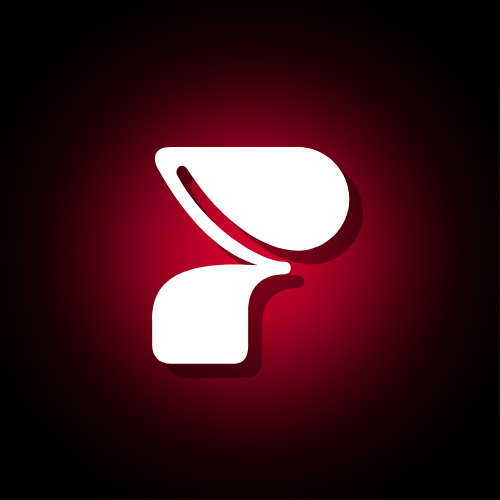
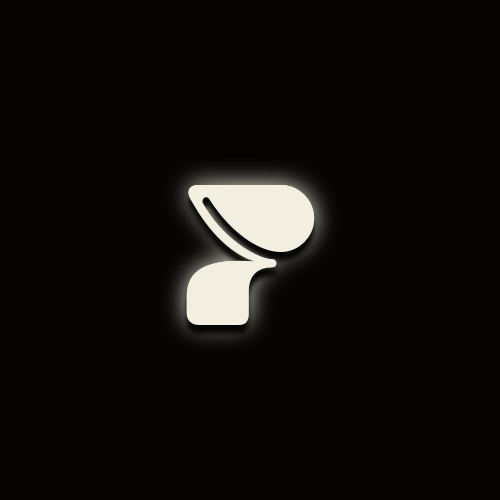
picWall

diff --git a/src/app/index.tsx b/src/app/index.tsx
@@ -3,7 +3,6 @@ import { Link } from "expo-router";
 import { Image } from "expo-image";
 import Footer from "@/utils/Footer";
 import React, { useEffect } from "react";
-import useAppState from "@/utils/store";
 import Colorizer from "@/utils/Colorizer";
 import imageSets from "@/database/static";
 import { FontAwesome5 } from "@expo/vector-icons";
@@ -35,14 +34,11 @@ const ScrollingSlot: React.FC<ScrollingSlotProps> = ({ images, reverse, delay })
             contentFit="cover"
             cachePolicy="memory-disk"
             style={{
+              shadowColor: Colorizer("#060403", 1.0),
               height: imageHeight,
-              borderRadius: 20,
+              borderRadius: 15,
               width: "100%",
-              margin: 3,
-              shadowColor: Colorizer("#080505", 1.0),
-              shadowOffset: { width: 0, height: 4 },
-              shadowOpacity: 0.3,
-              shadowRadius: 8
+              margin: 2
             }}
           />
         ))}
@@ -64,11 +60,11 @@ const AnimatedTitle: React.FC = () => {
   const animatedStyle = useAnimatedStyle(() => ({ transform: [{ scale: scale.value }] }));
   return (
     <Animated.View
-      style={[animatedStyle, { shadowColor: Colorizer("#080505", 1.0), shadowOffset: { width: 0, height: 8 }, shadowOpacity: 0.4, shadowRadius: 12 }]}
+      style={[animatedStyle, { shadowColor: Colorizer("#060403", 1.0), shadowOffset: { width: 0, height: 8 }, shadowOpacity: 0.4, shadowRadius: 12 }]}
       className="items-center mb-4"
       entering={FadeIn.delay(300).duration(1500)}
     >
-      <View className="rounded-full p-1" style={{ backgroundColor: Colorizer("#080505", 0.8), justifyContent: "center", alignItems: "center" }}>
+      <View className="rounded-full p-1" style={{ backgroundColor: Colorizer("#060403", 0.8), justifyContent: "center", alignItems: "center" }}>
         <Image
           alt="logo"
           contentFit="contain"
@@ -107,14 +103,14 @@ const AppPage: React.FC = () => {
     buttonRotate.value = withSpring(0, { damping: 15, stiffness: 90 });
   };
   return (
-    <View style={{ backgroundColor: Colorizer("#080505", 1.0) }} className="h-full w-full">
+    <View style={{ backgroundColor: Colorizer("#060403", 1.0) }} className="h-full w-full">
       <View className="flex-1 justify-center items-center relative">
         <View className="flex-row h-full overflow-hidden relative">
           {imageSets.map((images, slotIndex) => (
             <ScrollingSlot key={slotIndex} images={images} reverse={slotIndex % 2 === 0} delay={slotIndex * 400} />
           ))}
           <LinearGradient
-            colors={[Colorizer("#080505", 1.0), Colorizer("#080505", 0.4), Colorizer("#080505", 0.1), Colorizer("#080505", 0.4), Colorizer("#080505", 1.0)]}
+            colors={[Colorizer("#060403", 1.0), Colorizer("#060403", 0.4), Colorizer("#060403", 0.1), Colorizer("#060403", 0.4), Colorizer("#060403", 1.0)]}
             style={{ position: "absolute", top: 0, right: 0, bottom: 0, left: 0 }}
             locations={[0, 0.2, 0.4, 0.5, 1]}
           />
@@ -129,37 +125,32 @@ const AppPage: React.FC = () => {
                     textShadowRadius: 60,
                     color: Colorizer("#F2EFE0", 1.0),
                     textShadowOffset: { width: 24, height: 2 },
-                    fontFamily: "Dm_Serif_Display_Regular",
-                    textShadowColor: Colorizer("#080505", 1.0)
+                    fontFamily: "Lobster_Regular",
+                    textShadowColor: Colorizer("#060403", 1.0)
                   }}
                 >
                   picWall
                 </Text>
-                <Text className="text-center absolute inset-x-0 top-0" style={{ fontFamily: "Dm_Serif_Display_Regular", color: Colorizer("#F2EFE0", 1.0), fontSize: 80 }}>
+                <Text className="text-center absolute inset-x-0 top-0" style={{ fontFamily: "Lobster_Regular", color: Colorizer("#F2EFE0", 1.0), fontSize: 80 }}>
                   picWall
                 </Text>
                 <Animated.View style={{ alignSelf: "center" }} entering={FadeInDown.delay(600).duration(1500).springify()}>
-                  <View style={{ backgroundColor: Colorizer("#080505", 0.9), borderRadius: 12, paddingHorizontal: 12, paddingVertical: 4, marginTop: 8 }}>
+                  <View style={{ backgroundColor: Colorizer("#060403", 0.9), borderRadius: 12, paddingHorizontal: 12, paddingVertical: 4, marginTop: 8 }}>
                     <Text className="text-center" style={{ fontFamily: "Caveat_Bold", color: Colorizer("#F2EFE0", 1.0), fontSize: 16 }}>
-                      Crafted with <Text style={{ color: Colorizer("#BE2528", 1.0) }}>♥</Text> in India
+                      Crafted with <Text style={{ color: Colorizer("#C26F2D", 1.0) }}>♥</Text> in India
                     </Text>
                   </View>
                 </Animated.View>
               </View>
               <Link href="./Home" asChild>
-                <TouchableOpacity onPressIn={onPressIn} onPressOut={onPressOut} className="mt-44 rounded-2xl overflow-hidden">
-                  <Animated.View style={[buttonAnimatedStyle, { shadowColor: Colorizer("#080505", 1.0), shadowOffset: { width: 0, height: 4 } }]}>
-                    <LinearGradient
-                      colors={[Colorizer("#F2EFE0", 1.0), Colorizer("#F2EFE0", 1.0)]}
-                      start={{ x: 0, y: 0 }}
-                      end={{ x: 1, y: 1 }}
-                      className="flex-row items-center justify-center px-10 py-4"
-                    >
-                      <FontAwesome5 name="camera-retro" size={32} color={Colorizer("#080505", 1.0)} style={{ marginRight: 12 }} />
-                      <Text className="text-2xl" style={{ fontFamily: "Lobster_Regular", color: Colorizer("#080505", 1.0) }}>
+                <TouchableOpacity onPressIn={onPressIn} onPressOut={onPressOut} className="mt-44 rounded-full overflow-hidden">
+                  <Animated.View style={[buttonAnimatedStyle, { shadowColor: Colorizer("#060403", 1.0), shadowOffset: { width: 0, height: 4 } }]}>
+                    <View style={{ backgroundColor: Colorizer("#F2EFE0", 1.0) }} className="flex-row items-center justify-center px-8 py-4">
+                      <FontAwesome5 name="camera-retro" size={32} color={Colorizer("#060403", 1.0)} style={{ marginRight: 12 }} />
+                      <Text className="text-2xl" style={{ fontFamily: "Lobster_Regular", color: Colorizer("#060403", 1.0) }}>
                         Let's Explore Wallpapers
                       </Text>
-                    </LinearGradient>
+                    </View>
                   </Animated.View>
                 </TouchableOpacity>
               </Link>

diff --git a/src/app/Image/index.tsx b/src/app/Image/index.tsx
@@ -26,7 +26,7 @@ const SuccessModal: React.FC<{ visible: boolean; message: string; onClose: () =>
   if (!visible) return null;
   return (
     <View className="absolute inset-0 justify-center items-center">
-      <Animated.View className="absolute inset-0" style={[{ backgroundColor: Colorizer("#080505", 0.5) }, backdropStyle]} />
+      <Animated.View className="absolute inset-0" style={[{ backgroundColor: Colorizer("#060403", 0.5) }, backdropStyle]} />
       <Animated.View className="w-4/5 rounded-3xl p-5 border-4" style={[{ backgroundColor: Colorizer("#111111", 1.0), borderColor: Colorizer("#25BE8B", 1.0) }, modalStyle]}>
         <View className="items-center">
           <Ionicons name="checkmark-done-circle" size={50} color={Colorizer("#25BE8B", 1.0)} />
@@ -60,26 +60,26 @@ const ErrorModal: React.FC<{ visible: boolean; message: string; onClose: () => v
   if (!visible) return null;
   return (
     <View className="absolute inset-0 justify-center items-center">
-      <Animated.View className="absolute inset-0" style={[{ backgroundColor: Colorizer("#080505", 0.5) }, backdropStyle]} />
+      <Animated.View className="absolute inset-0" style={[{ backgroundColor: Colorizer("#060403", 0.5) }, backdropStyle]} />
       <Animated.View
         className="w-4/5 rounded-3xl p-5 border-4"
         style={[
           {
             backgroundColor: Colorizer("#111111", 1.0),
-            borderColor: Colorizer("#BE2528", 1.0)
+            borderColor: Colorizer("#C26F2D", 1.0)
           },
           modalStyle
         ]}
       >
         <View className="items-center">
-          <MaterialIcons name="error" size={50} color={Colorizer("#BE2528", 1.0)} />
-          <Text className="mt-2.5 text-5xl" style={{ fontFamily: "Lobster_Regular", color: Colorizer("#BE2528", 1.0) }}>
+          <MaterialIcons name="error" size={50} color={Colorizer("#C26F2D", 1.0)} />
+          <Text className="mt-2.5 text-5xl" style={{ fontFamily: "Lobster_Regular", color: Colorizer("#C26F2D", 1.0) }}>
             Error
           </Text>
-          <Text className="my-2.5 text-center text-lg" style={{ fontFamily: "Kurale_Regular", color: Colorizer("#BE2528", 1.0) }}>
+          <Text className="my-2.5 text-center text-lg" style={{ fontFamily: "Kurale_Regular", color: Colorizer("#C26F2D", 1.0) }}>
             {message}
           </Text>
-          <TouchableOpacity className="mt-2.5 px-5 py-2 rounded-2xl overflow-hidden" style={{ backgroundColor: Colorizer("#BE2528", 0.4) }} onPress={onClose}>
+          <TouchableOpacity className="mt-2.5 px-5 py-2 rounded-2xl overflow-hidden" style={{ backgroundColor: Colorizer("#C26F2D", 0.4) }} onPress={onClose}>
             <Text className="text-white text-lg" style={{ fontFamily: "Lobster_Regular" }}>
               OK
             </Text>
@@ -112,7 +112,7 @@ const DownloadingModal: React.FC<{ visible: boolean; percentage: number; downloa
   if (!visible) return null;
   return (
     <View className="absolute inset-0 justify-center items-center">
-      <View className="absolute inset-0" style={{ backgroundColor: Colorizer("#080505", 0.5) }} />
+      <View className="absolute inset-0" style={{ backgroundColor: Colorizer("#060403", 0.5) }} />
       <View
         className="w-4/5 rounded-3xl p-5 border-4"
         style={{
@@ -164,13 +164,13 @@ const PreviewImage: React.FC<{ selectedImage: ImageMetadata; screenWidth: number
         {!imageLoading && (
           <View className="items-center">
             <Animated.View className="justify-center items-center rounded-full">
-              <Image style={{ width: 64, height: 64, borderRadius: 32, backgroundColor: Colorizer("#080505", 0.8) }} source={require("@/assets/picWall/picWall.png")} contentFit="contain" />
+              <Image style={{ width: 64, height: 64, borderRadius: 32, backgroundColor: Colorizer("#060403", 0.8) }} source={require("@/assets/picWall/picWall.png")} contentFit="contain" />
             </Animated.View>
           </View>
         )}
       </View>
       {imageLoading && (
-        <View className="absolute inset-0 z-40 justify-center items-center" style={{ backgroundColor: Colorizer("#080505", 1.0) }}>
+        <View className="absolute inset-0 z-40 justify-center items-center" style={{ backgroundColor: Colorizer("#060403", 1.0) }}>
           <ActivityIndicator size="large" color={Colorizer(selectedImage.primary, 1.0)} />
           <Text className="mt-2.5" style={{ fontFamily: "Linotte_Bold", color: Colorizer(selectedImage.primary, 1.0) }}>
             Loading HD Image Preview...
@@ -317,7 +317,7 @@ const WallModal: React.FC<WallModalProps> = ({ visible, onComplete, onCancel, wa
   if (!visible) return null;
   return (
     <View className="absolute inset-0 justify-center items-center">
-      <Animated.View className="absolute inset-0" style={[{ backgroundColor: Colorizer("#080505", 0.5) }, backdropStyle]} />
+      <Animated.View className="absolute inset-0" style={[{ backgroundColor: Colorizer("#060403", 0.5) }, backdropStyle]} />
       <Animated.View className="w-4/5 rounded-3xl p-5 border-4" style={[{ backgroundColor: Colorizer("#111111", 1.0), borderColor: Colorizer(primaryColor, 1.0) }, modalStyle]}>
         <View className="items-center">
           <MaterialIcons name="warning" size={50} color={Colorizer(primaryColor, 1.0)} />
@@ -372,7 +372,7 @@ const FullScreenView: React.FC<FullScreenViewProps> = ({ isFullScreen, setIsFull
   };
   return (
     <Modal visible={isFullScreen} transparent={false} onRequestClose={() => setIsFullScreen(false)} presentationStyle="fullScreen" statusBarTranslucent>
-      <View style={{ flex: 1, backgroundColor: Colorizer("#080505", 1.0) }}>
+      <View style={{ flex: 1, backgroundColor: Colorizer("#060403", 1.0) }}>
         <ScrollView horizontal contentContainerStyle={{ flexGrow: 1, justifyContent: "center", alignItems: "center" }} showsHorizontalScrollIndicator={false}>
           <Image contentFit="fill" source={{ uri: selectedImage.previewLink.replace("lowRes", "highRes") }} style={{ height: "100%", width: (Dimensions.get("window").height * 9) / 16 }} />
         </ScrollView>
@@ -505,7 +505,7 @@ const ImagePage = () => {
   const otherImages = allImages.filter(({ idx }) => idx !== currentIndex);
 
   return (
-    <View className="flex-1" style={{ backgroundColor: Colorizer("#080505", 1.0) }}>
+    <View className="flex-1" style={{ backgroundColor: Colorizer("#060403", 1.0) }}>
       <StatusBar translucent backgroundColor="transparent" barStyle="light-content" />
       <ScrollView className="flex-1">
         <PreviewImage selectedImage={selectedImage} screenWidth={screenWidth} onViewFullScreen={() => setIsFullScreen(true)} />

diff --git a/src/app/Home/index.tsx b/src/app/Home/index.tsx
@@ -64,7 +64,7 @@ const SubImages: React.FC<SubImagesProps> = React.memo(({ images, onImagePress }
             />
             <Text
               className="absolute m-1 bottom-1 right-1 px-2 text-xs rounded-2xl"
-              style={{ fontFamily: "Kurale_Regular", color: Colorizer("#080505", 1.0), backgroundColor: Colorizer(image.primary, 1.0) }}
+              style={{ fontFamily: "Kurale_Regular", color: Colorizer("#F2EFE0", 1.0), backgroundColor: Colorizer(image.primary, 1.0) }}
             >
               {image.primary.toUpperCase()}
             </Text>
@@ -141,7 +141,7 @@ const Card: React.FC<CardProps> = React.memo(({ data }) => {
             <AnimatedImage source={{ uri: currentImage }} style={[{ width: "100%", height: "100%", borderTopLeftRadius: 8, borderTopRightRadius: 8 }, imageStyle]} contentFit="cover" />
             <View className="absolute bottom-0 left-0 right-0 items-center justify-start">
               <Animated.Text
-                style={[textStyle, { textAlign: "center", fontFamily: "Kurale_Regular", color: Colorizer("#080505", 0.8), backgroundColor: Colorizer(data.images[currentIndex].primary, 1.0) }]}
+                style={[textStyle, { textAlign: "center", fontFamily: "Kurale_Regular", color: Colorizer("#F2EFE0", 1.0), backgroundColor: Colorizer(data.images[currentIndex].primary, 1.0) }]}
                 className="text-sm m-1 px-1 rounded-xl"
               >
                 {data.images[currentIndex].original_file_name.replace(/_/g, " ").replace(".jpg", "")}
@@ -159,7 +159,7 @@ const Card: React.FC<CardProps> = React.memo(({ data }) => {
         </View>
       </View>
       <View className="border-t items-center justify-center py-0.5" style={{ backgroundColor: Colorizer(data.images[currentIndex].primary, 1.0) }}>
-        <Text style={{ fontFamily: "Dm_Serif_Display_Regular", color: Colorizer("#080505", 1.0), fontSize: 12, lineHeight: 16 }}>Generated by picWall-AI</Text>
+        <Text style={{ fontFamily: "Dm_Serif_Display_Regular", color: Colorizer("#060403", 1.0), fontSize: 10, lineHeight: 16 }}>Generated by picWall AI</Text>
       </View>
     </View>
   );
@@ -170,7 +170,7 @@ Card.displayName = "Card";
 function getCategoryIcon(selected: boolean) {
   const iconSize = selected ? 15 : 10;
   const iconName = selected ? "gripfire" : "swatchbook";
-  const iconColor = selected ? Colorizer("#F2EFE0", 1.0) : Colorizer("#080505", 1.0);
+  const iconColor = selected ? Colorizer("#F2EFE0", 1.0) : Colorizer("#060403", 1.0);
   return <FontAwesome5 name={iconName} size={iconSize} color={iconColor} />;
 }
 // ============================================================================================
@@ -190,25 +190,25 @@ const CategoryButton: React.FC<CategoryButtonExtendedProps> = React.memo(({ cate
     >
       <View style={{ alignItems: "center", margin: 2 }}>
         <Animated.View
-          style={[{ width: 100, height: 1, backgroundColor: selected ? "#5f1314" : "#BABABB", borderRadius: 50 }, useAnimatedStyle(() => ({ transform: [{ translateX: -translateX.value }] }))]}
+          style={[{ width: 100, height: 1, backgroundColor: selected ? "#803A21" : "#F5E5CE", borderRadius: 50 }, useAnimatedStyle(() => ({ transform: [{ translateX: -translateX.value }] }))]}
         />
       </View>
       <LinearGradient
-        colors={selected ? [Colorizer("#5f1314", 1.0), Colorizer("#981e20", 1.0), Colorizer("#BE2528", 1.0)] : [Colorizer("#F2EFE0", 1.0), Colorizer("#D2D2D3", 1.0), Colorizer("#BABABB", 1.0)]}
+        colors={selected ? [Colorizer("#803A21", 1.0), Colorizer("#BA652D", 1.0), Colorizer("#C26F2D", 1.0)] : [Colorizer("#F2EFE0", 1.0), Colorizer("#F5EBDF", 1.0), Colorizer("#F5E5CE", 1.0)]}
         style={{ paddingHorizontal: 10, paddingVertical: 4, borderRadius: 4 }}
         start={{ x: 0, y: 0 }}
         end={{ x: 1, y: 1 }}
       >
         <View style={{ flexDirection: "row", alignItems: "center" }}>
           {getCategoryIcon(selected)}
-          <Text style={{ fontFamily: "Caveat_Bold", color: selected ? Colorizer("#F2EFE0", 1.0) : Colorizer("#080505", 1.0) }} className="ml-1 p-1 text-lg">
+          <Text style={{ fontFamily: "Caveat_Bold", color: selected ? Colorizer("#F2EFE0", 1.0) : Colorizer("#060403", 1.0) }} className="ml-1 p-1 text-lg">
             {category}
           </Text>
         </View>
       </LinearGradient>
       <View style={{ alignItems: "center", margin: 2 }}>
         <Animated.View
-          style={[{ width: 100, height: 1, backgroundColor: selected ? "#BE2528" : "#F2EFE0", borderRadius: 50 }, useAnimatedStyle(() => ({ transform: [{ translateX: translateX.value }] }))]}
+          style={[{ width: 100, height: 1, backgroundColor: selected ? "#C26F2D" : "#F2EFE0", borderRadius: 50 }, useAnimatedStyle(() => ({ transform: [{ translateX: translateX.value }] }))]}
         />
       </View>
     </TouchableOpacity>
@@ -233,11 +233,11 @@ const HeaderComponent: React.FC<{ categories: Category[]; selectedCategory: stri
         <View className="pb-1 pt-4 px-2">
           <View style={{ flexDirection: "row", alignItems: "center", justifyContent: "center" }}>
             <Animated.View style={leftIconStyle}>
-              <FontAwesome5 name="caret-left" size={24} color="#F2EFE0" />
+              <FontAwesome5 name="caret-left" size={24} color="#C26F2D" />
             </Animated.View>
             <Text style={{ fontFamily: "Lobster_Regular", fontSize: 40, color: "#F2EFE0", textAlign: "center", marginHorizontal: 10 }}>Our Collections</Text>
             <Animated.View style={rightIconStyle}>
-              <FontAwesome5 name="caret-right" size={24} color="#F2EFE0" />
+              <FontAwesome5 name="caret-right" size={24} color="#C26F2D" />
             </Animated.View>
           </View>
           <ScrollView horizontal showsHorizontalScrollIndicator={false}>
@@ -285,7 +285,7 @@ const HomePage = (): JSX.Element => {
   );
   const keyExtractor = React.useCallback((item: EnvironmentEntry) => item.environment_title, []);
   return (
-    <View style={{ backgroundColor: Colorizer("#080505", 1.0), flex: 1 }} className="relative">
+    <View style={{ backgroundColor: Colorizer("#060403", 1.0), flex: 1 }} className="relative">
       <StatusBar translucent backgroundColor="transparent" barStyle="light-content" />
       <FlatList
         windowSize={3}

diff --git a/src/utils/HeaderAnimated.tsx b/src/utils/HeaderAnimated.tsx
@@ -18,10 +18,10 @@ const ScrollingSlot: React.FC<ScrollingSlotProps> = ({ images, reverse, delay })
   }, [scrollValue, totalHeight, reverse, delay, opacity]);
   const animatedStyle = useAnimatedStyle(() => ({ transform: [{ translateY: -scrollValue.value % totalHeight }], opacity: opacity.value }));
   return (
-    <View className="flex-1 overflow-hidden px-1">
+    <View className="flex-1 overflow-hidden p-1">
       <Animated.View style={animatedStyle} className="flex-col">
         {images.concat(images).map((uri: string, idx: number) => (
-          <Image key={idx} source={{ uri }} alt="Scrolling Image" className="w-full h-24 rounded-lg mb-1" resizeMode="cover" blurRadius={0} style={{ height: imageHeight }} />
+          <Image key={idx} source={{ uri }} alt="Scrolling Image" className="w-full h-24 rounded-xl mb-1" resizeMode="cover" blurRadius={1.5} style={{ height: imageHeight }} />
         ))}
       </Animated.View>
     </View>
@@ -37,7 +37,7 @@ const AnimatedTitle: React.FC = () => {
   const animatedStyle = useAnimatedStyle(() => ({ transform: [{ scale: scale.value }] }));
   return (
     <Animated.View style={animatedStyle} className="items-center mt-10">
-      <View style={{ backgroundColor: Colorizer("#080505", 0.6) }} className="rounded-full p-1">
+      <View style={{ backgroundColor: Colorizer("#060403", 0.6) }} className="rounded-full p-1">
         <Image source={require("@/assets/picWall/picWall.png")} alt="logo" className="w-24 h-24 rounded-full border-2" style={{ borderColor: Colorizer("#F2EFE0", 1.0) }} resizeMode="contain" />
       </View>
     </Animated.View>
@@ -48,7 +48,7 @@ const AnimatedTitle: React.FC = () => {
 const HeaderAnimated: React.FC = () => {
   return (
     <View className="flex-1 items-center justify-center">
-      <View className="flex-row overflow-hidden rounded-xl relative" style={{ height: 200 }}>
+      <View className="flex-row overflow-hidden rounded-xl relative" style={{ height: 300 }}>
         {imageSets.map((images, slotIndex) => (
           <ScrollingSlot key={slotIndex} images={images} reverse={slotIndex % 2 === 0} delay={slotIndex * 200} />
         ))}
@@ -56,18 +56,18 @@ const HeaderAnimated: React.FC = () => {
           className="absolute inset-0 items-center justify-center rounded-lg overflow-hidden"
           style={{ position: "absolute", top: 0, left: 0, right: 0, bottom: 0, justifyContent: "center", alignItems: "center", borderRadius: 8 }}
         >
-          <View style={{ backgroundColor: Colorizer("#080505", 0.5), borderRadius: 8 }} className="absolute inset-0" />
+          <View style={{ backgroundColor: Colorizer("#060403", 0.5) }} className="absolute inset-0" />
           <View style={{ position: "absolute", justifyContent: "center", alignItems: "center", margin: 8, padding: 4 }} className="absolute justify-center items-center">
             <View className="flex-row mb-1">
               <AnimatedTitle />
             </View>
-            <Text style={{ fontFamily: "Dm_Serif_Display_Regular", fontSize: 30, color: Colorizer("#F2EFE0", 1.0), letterSpacing: -1, lineHeight: 34 }} className="tracking-tight">
+            <Text style={{ fontFamily: "Lobster_Regular", fontSize: 30, color: Colorizer("#F2EFE0", 1.0), lineHeight: 34 }} className="tracking-tight">
               picWall
             </Text>
             <Animated.View style={{ alignSelf: "center" }} entering={FadeInDown.delay(600).duration(1500).springify()}>
-              <View style={{ backgroundColor: Colorizer("#080505", 0.9), borderRadius: 12, paddingHorizontal: 12, paddingVertical: 2, marginTop: 2 }}>
+              <View style={{ backgroundColor: Colorizer("#060403", 0.9), borderRadius: 12, paddingHorizontal: 12, paddingVertical: 2, marginTop: 4 }}>
                 <Text className="text-center" style={{ fontFamily: "Caveat_Bold", color: Colorizer("#F2EFE0", 1.0), fontSize: 16 }}>
-                  Crafted with <Text style={{ color: Colorizer("#BE2528", 1.0) }}>♥</Text> in India
+                  Crafted with <Text style={{ color: Colorizer("#C26F2D", 1.0) }}>♥</Text> in India
                 </Text>
               </View>
             </Animated.View>

diff --git a/src/app/_layout.tsx b/src/app/_layout.tsx
@@ -47,13 +47,13 @@ export default function RootLayout() {
   }, [loaded, error]);
   if (!loaded && !error) return null;
   return (
-    <SafeAreaView style={{ flex: 1, backgroundColor: Colorizer("#080505", 1.0) }}>
-      <StatusBar backgroundColor="#080505" barStyle="light-content" />
+    <SafeAreaView style={{ flex: 1, backgroundColor: Colorizer("#060403", 1.0) }}>
+      <StatusBar backgroundColor="#060403" barStyle="light-content" />
       <LinearGradient
-        colors={[Colorizer("#080505", 1.0), Colorizer("#080505", 0.8), Colorizer("#080505", 0.6), Colorizer("#080505", 0.4), Colorizer("#080505", 0.2), "transparent"]}
+        colors={[Colorizer("#060403", 1.0), Colorizer("#060403", 0.8), Colorizer("#060403", 0.6), Colorizer("#060403", 0.4), Colorizer("#060403", 0.2), "transparent"]}
         style={{ position: "absolute", top: 0, left: 0, right: 0, height: 100, zIndex: 50 }}
       />
-      <View style={{ flex: 1, backgroundColor: Colorizer("#080505", 1.0) }} className="capitalize">
+      <View style={{ flex: 1, backgroundColor: Colorizer("#060403", 1.0) }} className="capitalize">
         <Stack screenOptions={{ headerShown: false }} />
       </View>
     </SafeAreaView>

diff --git a/src/utils/Footer.tsx b/src/utils/Footer.tsx
@@ -5,11 +5,11 @@ import { FontAwesome } from "@expo/vector-icons";
 // ============================================================================================
 // ============================================================================================
 const Footer: React.FC = () => (
-  <View style={{ backgroundColor: Colorizer("#080505", 1.0) }} className="relative w-full py-4">
+  <View style={{ backgroundColor: Colorizer("#060403", 1.0) }} className="relative w-full py-4">
     <View className="flex flex-col sm:flex-row items-center justify-between px-4">
       <View className="flex-row items-center gap-2">
-        <FontAwesome name="book" size={16} style={{ color: Colorizer("#BE2528", 1.0) }} />
-        <Text style={{ fontFamily: "Dm_Serif_Display_Regular", color: Colorizer("#BE2528", 1.0) }} className="text-sm">
+        <FontAwesome name="book" size={16} style={{ color: Colorizer("#C26F2D", 1.0) }} />
+        <Text style={{ fontFamily: "Lobster_Regular", color: Colorizer("#C26F2D", 1.0) }} className="text-sm">
           picWall
         </Text>
       </View>
